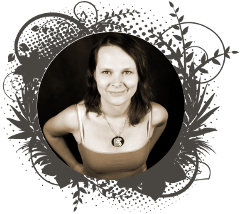
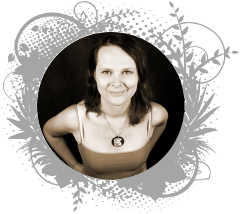
Tweaked colours

Changed region(s): [[0.0, 0.0, 0.9917, 1.0], [0.8167, 0.1121, 0.875, 0.1402], [0.875, 0.1402, 0.9042, 0.1682]]

diff --git a/wpMonique/style.css b/wpMonique/style.css
@@ -97,9 +97,10 @@ body {
     box-sizing: border-box;
     -moz-box-sizing: border-box;
     -webkit-box-sizing: border-box;
-    box-shadow: inset 0px 0px 15px 2px #ebebeb;
-    -moz-box-shadow: inset 0px 0px 15px 2px #ebebeb;
-    -webkit-box-shadow: inset 0px 0px 15px 2px #ebebeb;
+    box-shadow: inset 0px 0px 15px 2px #d1d1d1;
+    -moz-box-shadow: inset 0px 0px 15px 2px #d1d1d1;
+    -webkit-box-shadow: inset 0px 0px 15px 2px #d1d1d1;
+    border: 1px solid #9e9e9e;
     #box-shadow: 0px 0px 10px 2px #a8a8a8;
     #-moz-box-shadow: 0px 0px 10px 2px #a8a8a8;
     #-webkit-box-shadow: 0px 0px 10px 2px #a8a8a8;
@@ -238,13 +239,13 @@ a:hover {color: #d5802a;}
 }
 
 .main-navigation a {
-    color: #8ba859;
+    color: #3a6482;
     #color: #4c3c2d;
     text-decoration: none;
 }
 
 .main-navigation a:hover {
-    color: #8ba859;
+    color: #3a6482;
     #color: #4c3c2d;
 }
 
